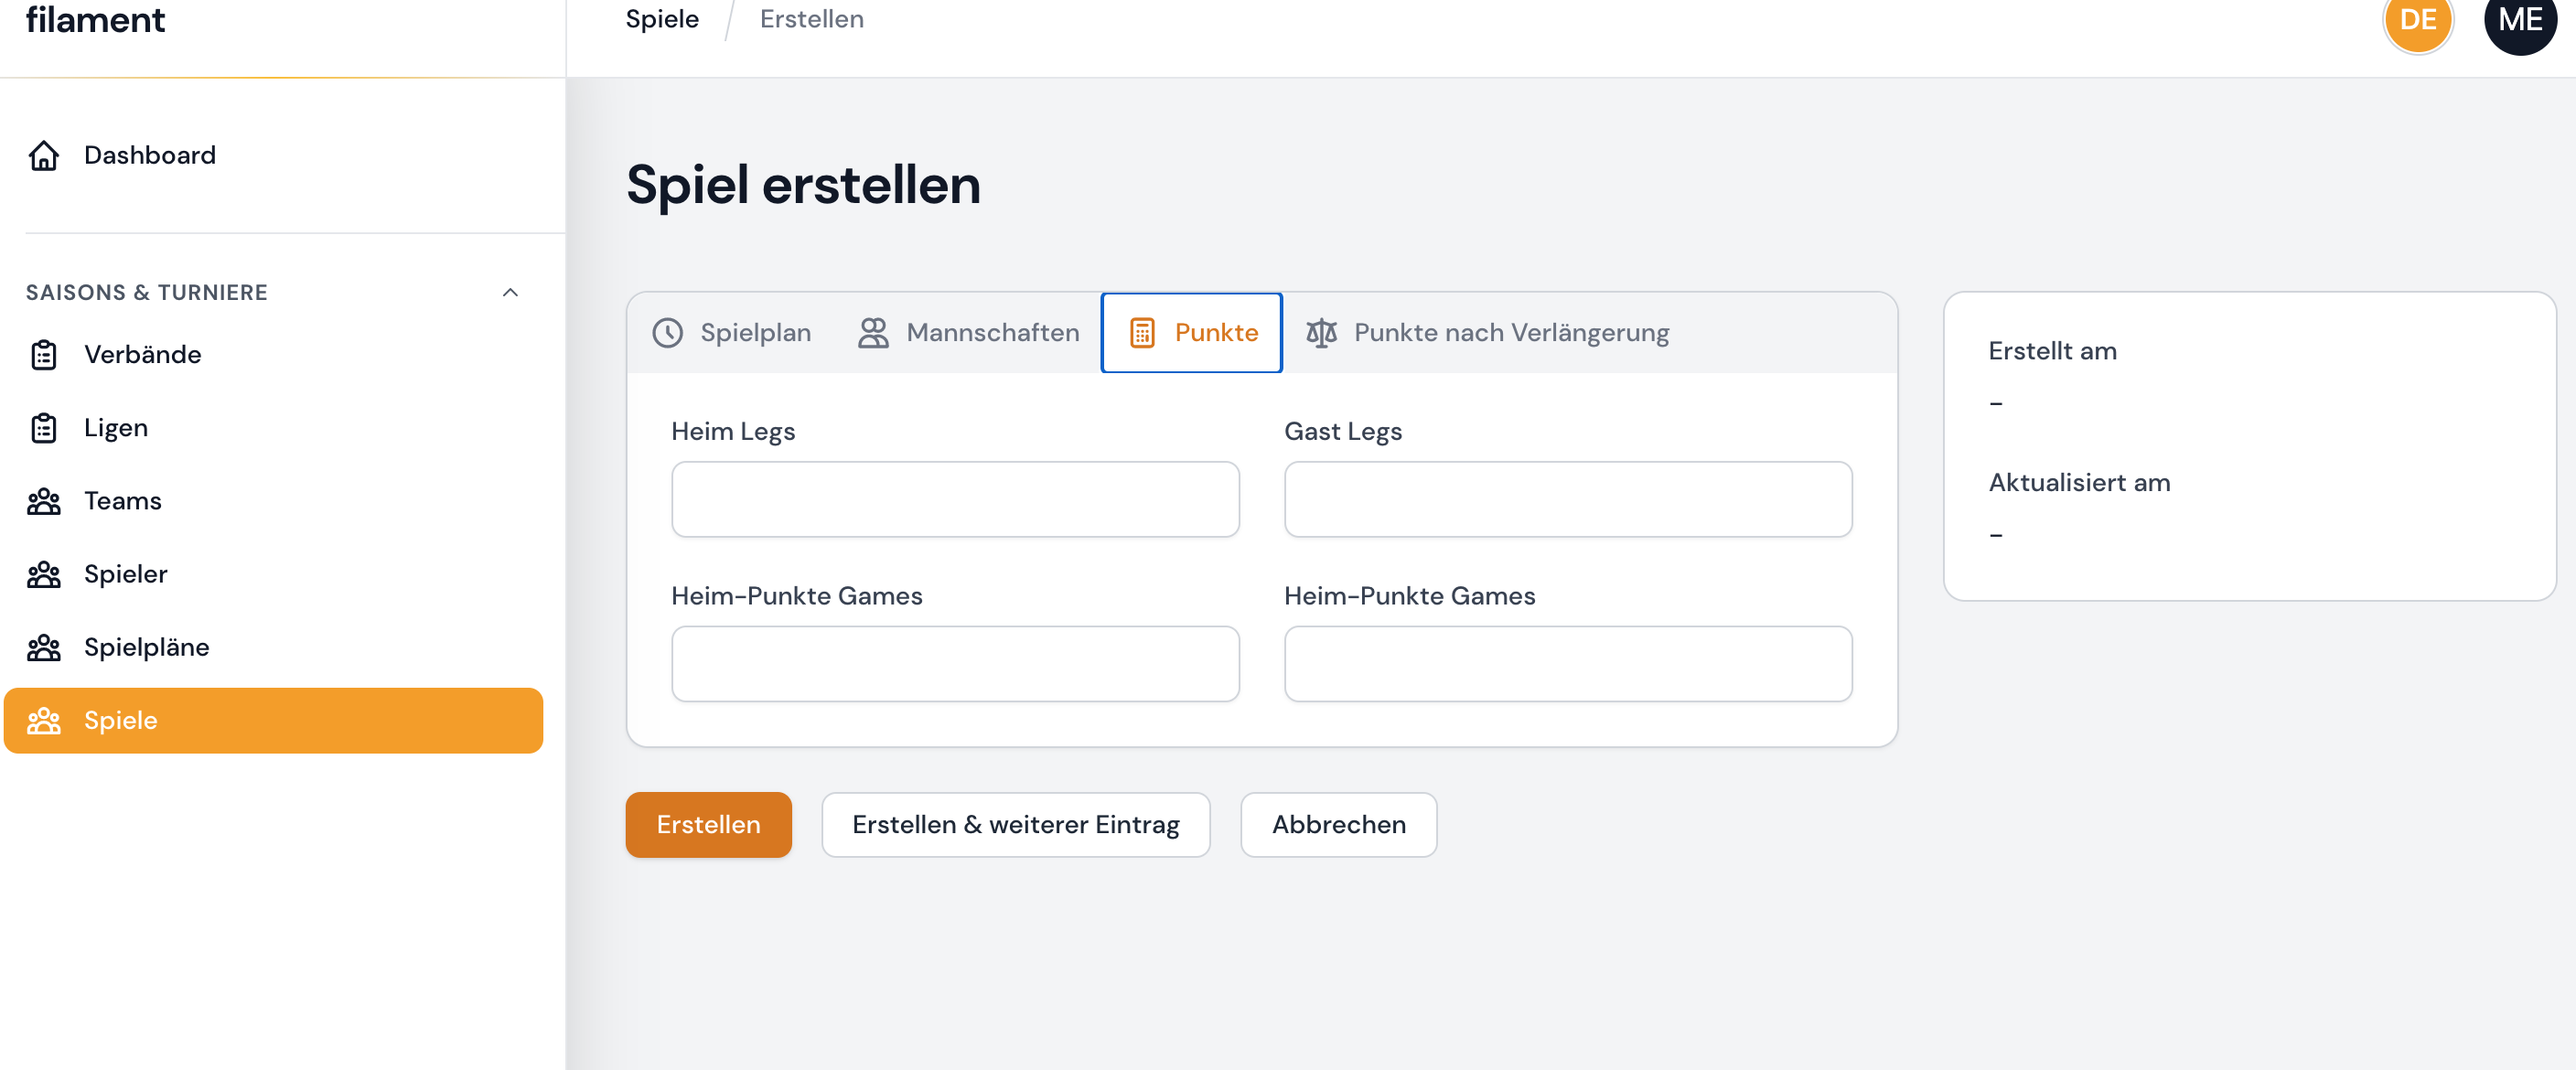
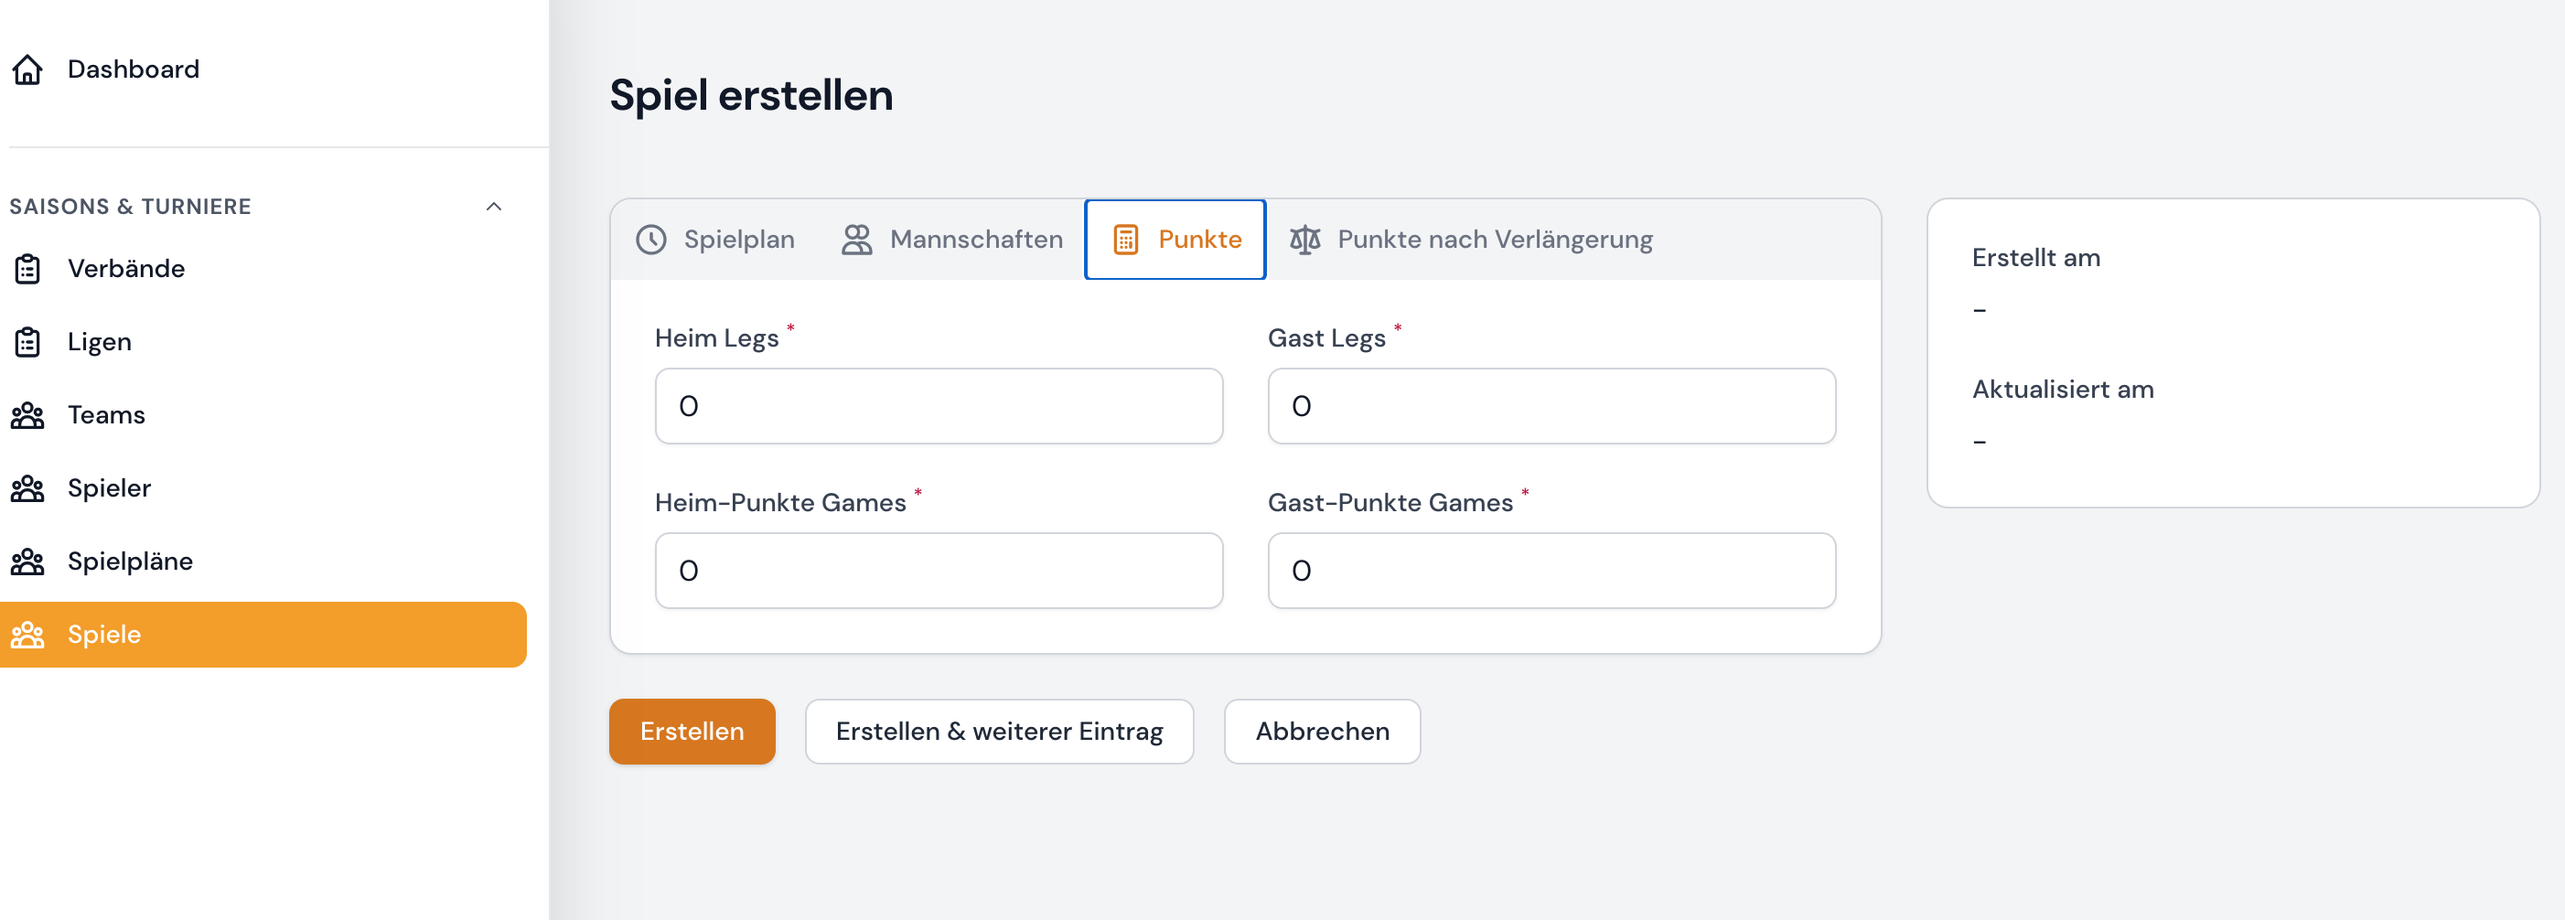
wip: Game schedule - tab games added

diff --git a/src/Resources/GameScheduleResource/RelationManagers/GamesRelationManager.php b/src/Resources/GameScheduleResource/RelationManagers/GamesRelationManager.php
@@ -1,0 +1,117 @@
+<?php
+
+namespace Maggomann\FilamentTournamentLeagueAdministration\Resources\GameScheduleResource\RelationManagers;
+
+use Filament\Resources\Form;
+use Filament\Resources\Table;
+use Filament\Tables\Columns\TextColumn;
+use Illuminate\Database\Eloquent\Model;
+use Maggomann\FilamentTournamentLeagueAdministration\Models\Game;
+use Maggomann\FilamentTournamentLeagueAdministration\Models\TotalTeamPoint;
+use Maggomann\FilamentTournamentLeagueAdministration\Resources\TranslateableRelationManager;
+
+class GamesRelationManager extends TranslateableRelationManager
+{
+    protected static string $relationship = 'games';
+
+    protected static ?string $recordTitleAttribute = 'id';
+
+    public static function getTitle(): string
+    {
+        return static::$title ?? trans_choice(static::$translateablePackageKey.'filament-model.models.game', number: 2);
+    }
+
+    public static function getRecordTitle(?Model $record): ?string
+    {
+        $recordTitleSingular = trans_choice(static::$translateablePackageKey.'filament-model.models.game', number: 1);
+
+        if (! $record) {
+            return $recordTitleSingular;
+        }
+
+        $recordTitle = $recordTitleSingular;
+        $recordTitle .= ' ';
+
+        $recordTitle .= $record->getAttributeValue(static::getRecordTitleAttribute());
+
+        return $recordTitle;
+    }
+
+    public static function form(Form $form): Form
+    {
+        return $form;
+    }
+
+    public static function table(Table $table): Table
+    {
+        return $table
+            ->columns([
+                TextColumn::make('gameDay.day')
+                    ->label(Game::transAttribute('game_day_id'))
+                    ->searchable()
+                    ->sortable(),
+
+                TextColumn::make('homeTeam.name')
+                    ->label(Game::transAttribute('home_team_id'))
+                    ->searchable()
+                    ->sortable(),
+
+                TextColumn::make('guestTeam.name')
+                    ->label(Game::transAttribute('guest_team_id'))
+                    ->searchable()
+                    ->sortable(),
+
+                TextColumn::make(TotalTeamPoint::transAttribute('legs'))
+                    ->label(TotalTeamPoint::transAttribute('legs'))
+                    ->getStateUsing(
+                        fn (Game $record): string => "{$record->home_points_legs} : {$record->guest_points_legs}"
+                    ),
+
+                TextColumn::make(TotalTeamPoint::transAttribute('games'))
+                    ->label(TotalTeamPoint::transAttribute('games'))
+                    ->getStateUsing(
+                        fn (Game $record): string => "{$record->home_points_games} : {$record->guest_points_games}"
+                    ),
+
+                TextColumn::make(TotalTeamPoint::transAttribute('points_after_draws'))
+                    ->label(TotalTeamPoint::transAttribute('points_after_draws'))
+                    ->getStateUsing(
+                        fn (Game $record): string => "{$record->home_points_after_draw} : {$record->guest_points_after_draw}"
+                    )
+                    ->hidden(
+                        fn (GamesRelationManager $livewire) => $livewire->getOwnerRecord()->federation->calculationType->id !== 2
+                    ),
+
+                TextColumn::make('started_at')
+                    ->label(Game::transAttribute('started_at'))
+                    ->date()
+                    ->toggleable(),
+
+                TextColumn::make('ended_at')
+                    ->label(Game::transAttribute('ended_at'))
+                    ->date()
+                    ->toggleable(),
+
+            ])
+            ->filters([])
+            ->headerActions([
+            ])
+            ->actions([])
+            ->bulkActions([]);
+    }
+
+    public static function getPages(): array
+    {
+        return [];
+    }
+
+    protected function getDefaultTableSortColumn(): ?string
+    {
+        return 'game_day_id';
+    }
+
+    protected function getDefaultTableSortDirection(): ?string
+    {
+        return 'asc';
+    }
+}

diff --git a/src/Resources/GameResource.php b/src/Resources/GameResource.php
@@ -21,6 +21,7 @@ use Maggomann\FilamentTournamentLeagueAdministration\Domain\Support\Tables\Actio
 use Maggomann\FilamentTournamentLeagueAdministration\Domain\Support\Tables\Actions\ViewAction;
 use Maggomann\FilamentTournamentLeagueAdministration\Domain\Support\TranslateComponent;
 use Maggomann\FilamentTournamentLeagueAdministration\Models\Game;
+use Maggomann\FilamentTournamentLeagueAdministration\Models\TotalTeamPoint;
 use Maggomann\FilamentTournamentLeagueAdministration\Resources\Forms\Components\CardTimestamps;
 use Maggomann\FilamentTournamentLeagueAdministration\Resources\GameResource\Pages;
 use Maggomann\FilamentTournamentLeagueAdministration\Resources\GameResource\SelectOptions\GameDaySelect;
@@ -202,6 +203,24 @@ class GameResource extends TranslateableResource
                     ->label(Game::transAttribute('guest_team_id'))
                     ->searchable()
                     ->sortable(),
+
+                TextColumn::make(TotalTeamPoint::transAttribute('legs'))
+                    ->label(TotalTeamPoint::transAttribute('legs'))
+                    ->getStateUsing(
+                        fn (Game $record): string => "{$record->home_points_legs} : {$record->guest_points_legs}"
+                    ),
+
+                TextColumn::make(TotalTeamPoint::transAttribute('games'))
+                    ->label(TotalTeamPoint::transAttribute('games'))
+                    ->getStateUsing(
+                        fn (Game $record): string => "{$record->home_points_games} : {$record->guest_points_games}"
+                    ),
+
+                TextColumn::make(TotalTeamPoint::transAttribute('points_after_draws'))
+                    ->label(TotalTeamPoint::transAttribute('points_after_draws'))
+                    ->getStateUsing(
+                        fn (Game $record): string => "{$record->home_points_after_draw} : {$record->guest_points_after_draw}"
+                    ),
 
                 TextColumn::make('started_at')
                     ->label(Game::transAttribute('started_at'))

diff --git a/src/Resources/GameScheduleResource.php b/src/Resources/GameScheduleResource.php
@@ -29,6 +29,7 @@ use Maggomann\FilamentTournamentLeagueAdministration\Models\Team;
 use Maggomann\FilamentTournamentLeagueAdministration\Resources\Forms\Components\CardTimestamps;
 use Maggomann\FilamentTournamentLeagueAdministration\Resources\GameScheduleResource\Pages;
 use Maggomann\FilamentTournamentLeagueAdministration\Resources\GameScheduleResource\RelationManagers\GameDaysRelationManager;
+use Maggomann\FilamentTournamentLeagueAdministration\Resources\GameScheduleResource\RelationManagers\GamesRelationManager;
 use Maggomann\FilamentTournamentLeagueAdministration\Resources\GameScheduleResource\RelationManagers\PlayersRelationManager;
 use Maggomann\FilamentTournamentLeagueAdministration\Resources\GameScheduleResource\RelationManagers\TeamsRelationManager;
 use Maggomann\FilamentTournamentLeagueAdministration\Resources\GameScheduleResource\RelationManagers\TotalTeamPointsRelationManager;
@@ -197,6 +198,7 @@ class GameScheduleResource extends TranslateableResource
             GameDaysRelationManager::class,
             TeamsRelationManager::class,
             PlayersRelationManager::class,
+            GamesRelationManager::class,
             TotalTeamPointsRelationManager::class,
         ];
     }

diff --git a/resources/lang/de/filament-model.php b/resources/lang/de/filament-model.php
@@ -87,7 +87,7 @@ return [
             'home_points_legs' => 'Heim Legs',
             'guest_points_legs' => 'Gast Legs',
             'home_points_games' => 'Heim-Punkte Games',
-            'guest_points_games' => 'Heim-Punkte Games',
+            'guest_points_games' => 'Gast-Punkte Games',
             'has_an_overtime' => 'Hat eine Verlängerung',
             'home_points_after_draw' => 'Heim-Punkte nach Verlängerung',
             'guest_points_after_draw' => 'Gast-Punkte nach Verlängerung',
@@ -123,6 +123,7 @@ return [
             'total_points' => 'Punkte',
             'legs' => 'Legs',
             'games' => 'Spiele',
+            'points_after_draws' => 'Pkt. n. U.',
             'created_at' => 'Erstellt am',
             'updated_at' => 'Aktualisiert',
             'deleted_at' => 'Gelöscht am',

diff --git a/src/Resources/GameScheduleResource/RelationManagers/TotalTeamPointsRelationManager.php b/src/Resources/GameScheduleResource/RelationManagers/TotalTeamPointsRelationManager.php
@@ -72,11 +72,13 @@ class TotalTeamPointsRelationManager extends TranslateableRelationManager
                     ),
 
                 TextColumn::make(TotalTeamPoint::transAttribute('legs'))
+                    ->label(TotalTeamPoint::transAttribute('legs'))
                     ->getStateUsing(
                         fn (TotalTeamPoint $record): string => "{$record->total_home_points_legs} : {$record->total_guest_points_legs}"
                     ),
 
                 TextColumn::make(TotalTeamPoint::transAttribute('games'))
+                    ->label(TotalTeamPoint::transAttribute('games'))
                     ->getStateUsing(
                         fn (TotalTeamPoint $record): string => "{$record->total_home_points_games} : {$record->total_guest_points_games}"
                     ),
